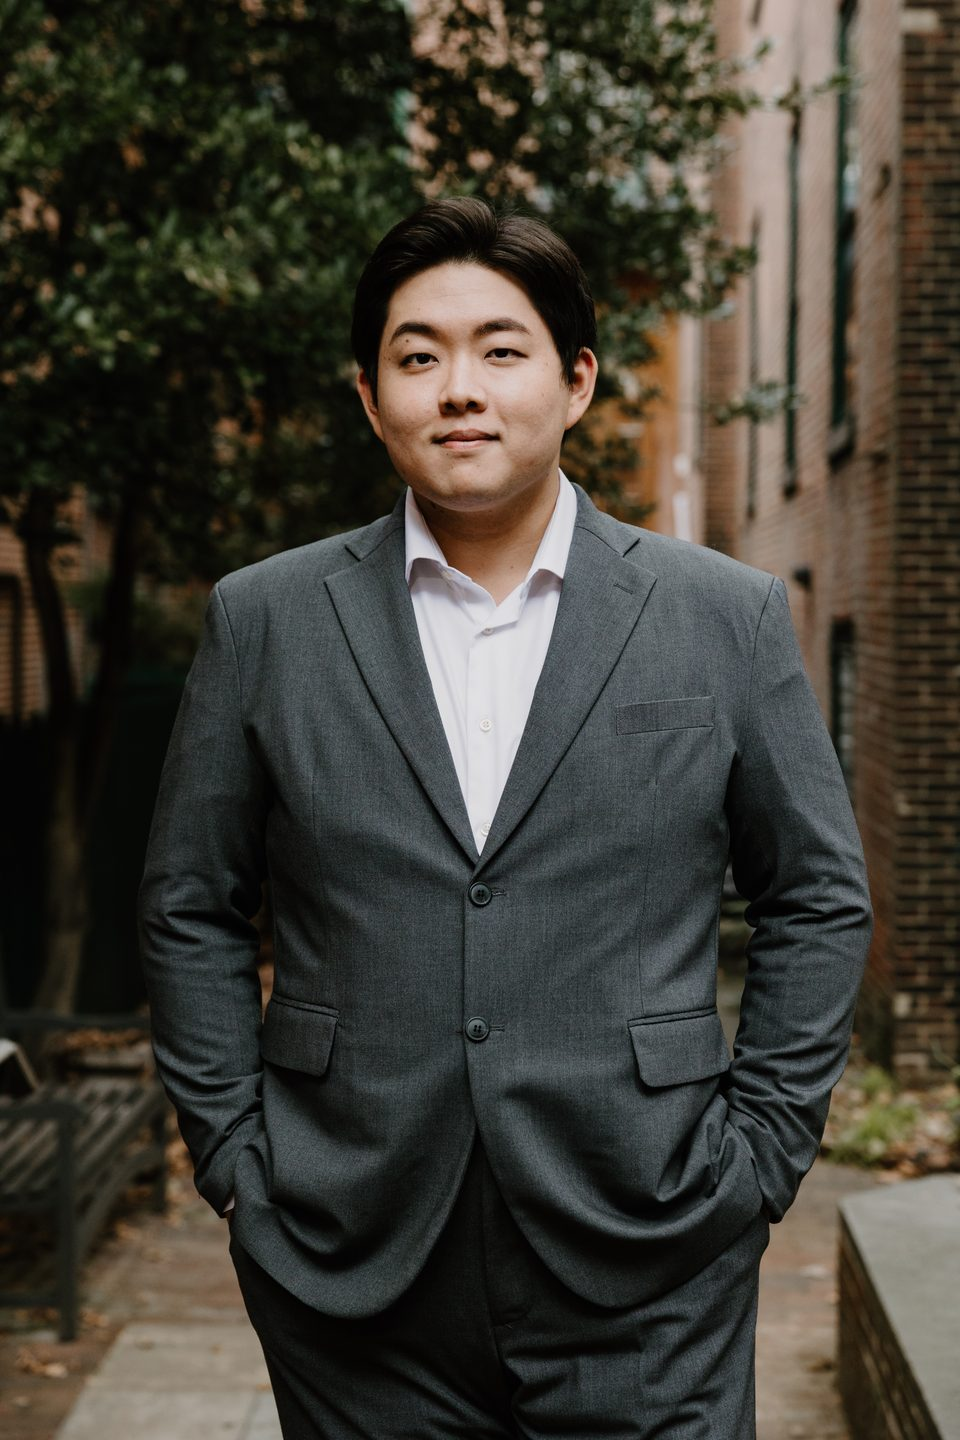
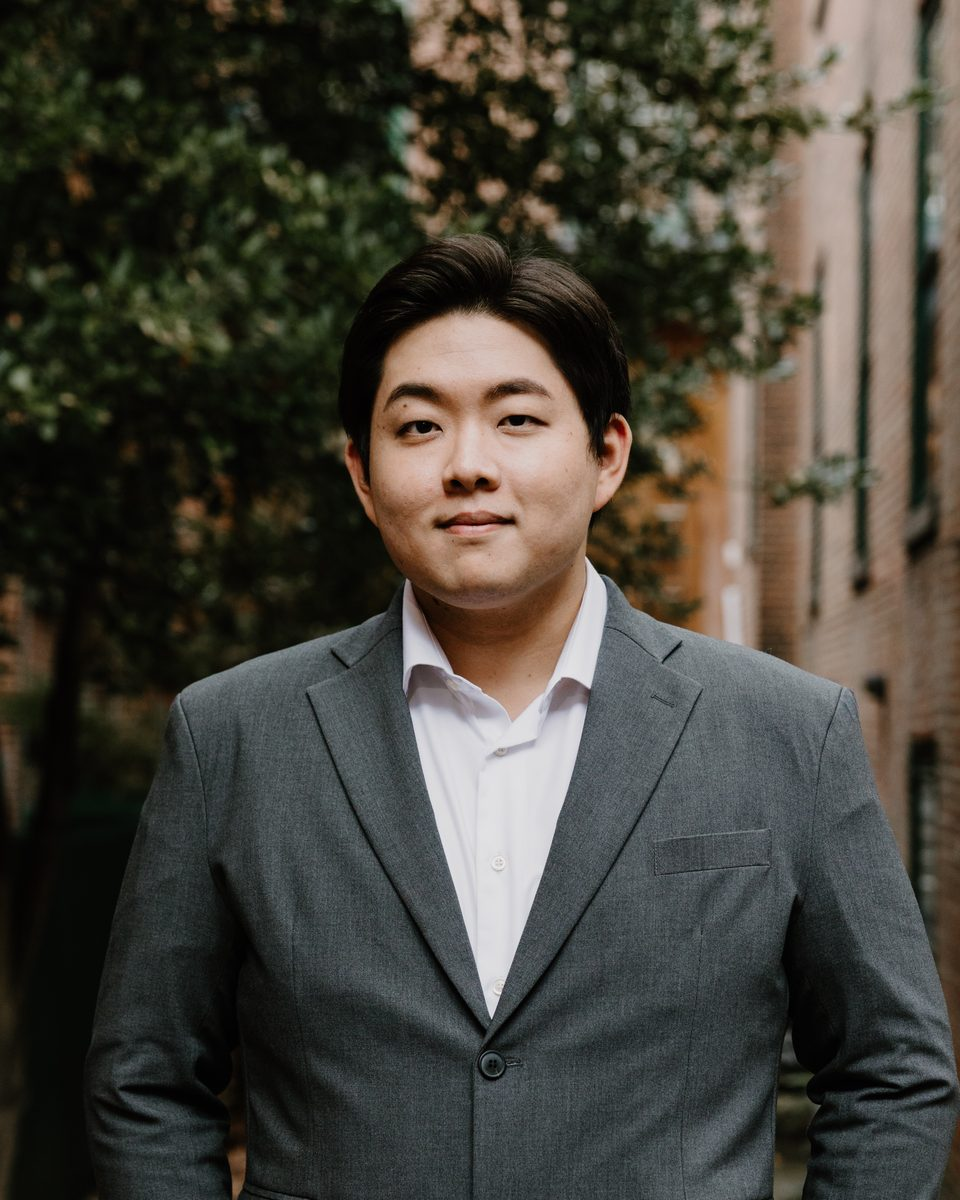
About: 4:5 frame again, portraits cropped slightly tighter on the face

diff --git a/css/style.css b/css/style.css
@@ -334,9 +334,8 @@ h3 { font-size: .72rem; font-weight: 500; letter-spacing: .25em; text-transform:
 .about-text .bio p:last-child { margin-bottom: 0; }
 .about-text h2 { margin-bottom: 40px; }
 .about-wrap .training { grid-column: 1 / -1; }
-/* 데스크톱: 사진 높이 = 글 높이 (위는 Biography, 아래는 마지막 줄에 맞춤) */
-.about-slides { position: relative; min-height: 460px; overflow: hidden; background: var(--gray-1); }
-.about-slides img { position: absolute; inset: 0; width: 100%; height: 100%; object-fit: cover; object-position: 50% 35%; opacity: 0; transform: scale(1.06);
+.about-slides { position: relative; align-self: start; aspect-ratio: 4 / 5; overflow: hidden; background: var(--gray-1); }
+.about-slides img { position: absolute; inset: 0; width: 100%; height: 100%; object-fit: cover; opacity: 0; transform: scale(1.06);
   transition: opacity 1.6s ease, transform 7s ease-out; }
 .about-slides img.on { opacity: 1; transform: scale(1); }
 .about-dots { position: absolute; left: 0; right: 0; bottom: 14px; display: flex; justify-content: center; gap: 6px; z-index: 1; }
@@ -346,6 +345,6 @@ h3 { font-size: .72rem; font-weight: 500; letter-spacing: .25em; text-transform:
 @media (prefers-reduced-motion: reduce) { .about-slides img { transform: none; transition: opacity .8s ease; } }
 @media (max-width: 820px) {
   .about-wrap { grid-template-columns: 1fr; }
-  .about-slides { width: 100%; max-width: 440px; min-height: 0; aspect-ratio: 4 / 5; margin: 0 auto 48px; }
+  .about-slides { width: 100%; max-width: 440px; margin: 0 auto 48px; }
 }
 }

diff --git a/index.html b/index.html
@@ -24,7 +24,7 @@
   <script>
     /* 최신 버전 확인: 브라우저에 저장된 예전 페이지면 자동으로 새로 불러옴 (주소는 그대로 유지) */
     (function () {
-      var PAGE_VERSION = "20261002001306";
+      var PAGE_VERSION = "20261002001745";
       try {
         var u = new URL(location.href);
         if (u.searchParams.has("_v")) { u.searchParams.delete("_v"); history.replaceState(null, "", u.pathname + (u.search || "") + u.hash); }
@@ -37,7 +37,7 @@
       } catch (e) {}
     })();
   </script>
-  <link rel="stylesheet" href="css/style.css?v=20261002001306">
+  <link rel="stylesheet" href="css/style.css?v=20261002001745">
 </head>
 <body>
 
@@ -208,6 +208,6 @@
     <button class="modal-nav next" aria-label="Next">&#8250;</button>
   </div>
 
-  <script src="js/main.js?v=20261002001306"></script>
+  <script src="js/main.js?v=20261002001745"></script>
 </body>
 </html>
